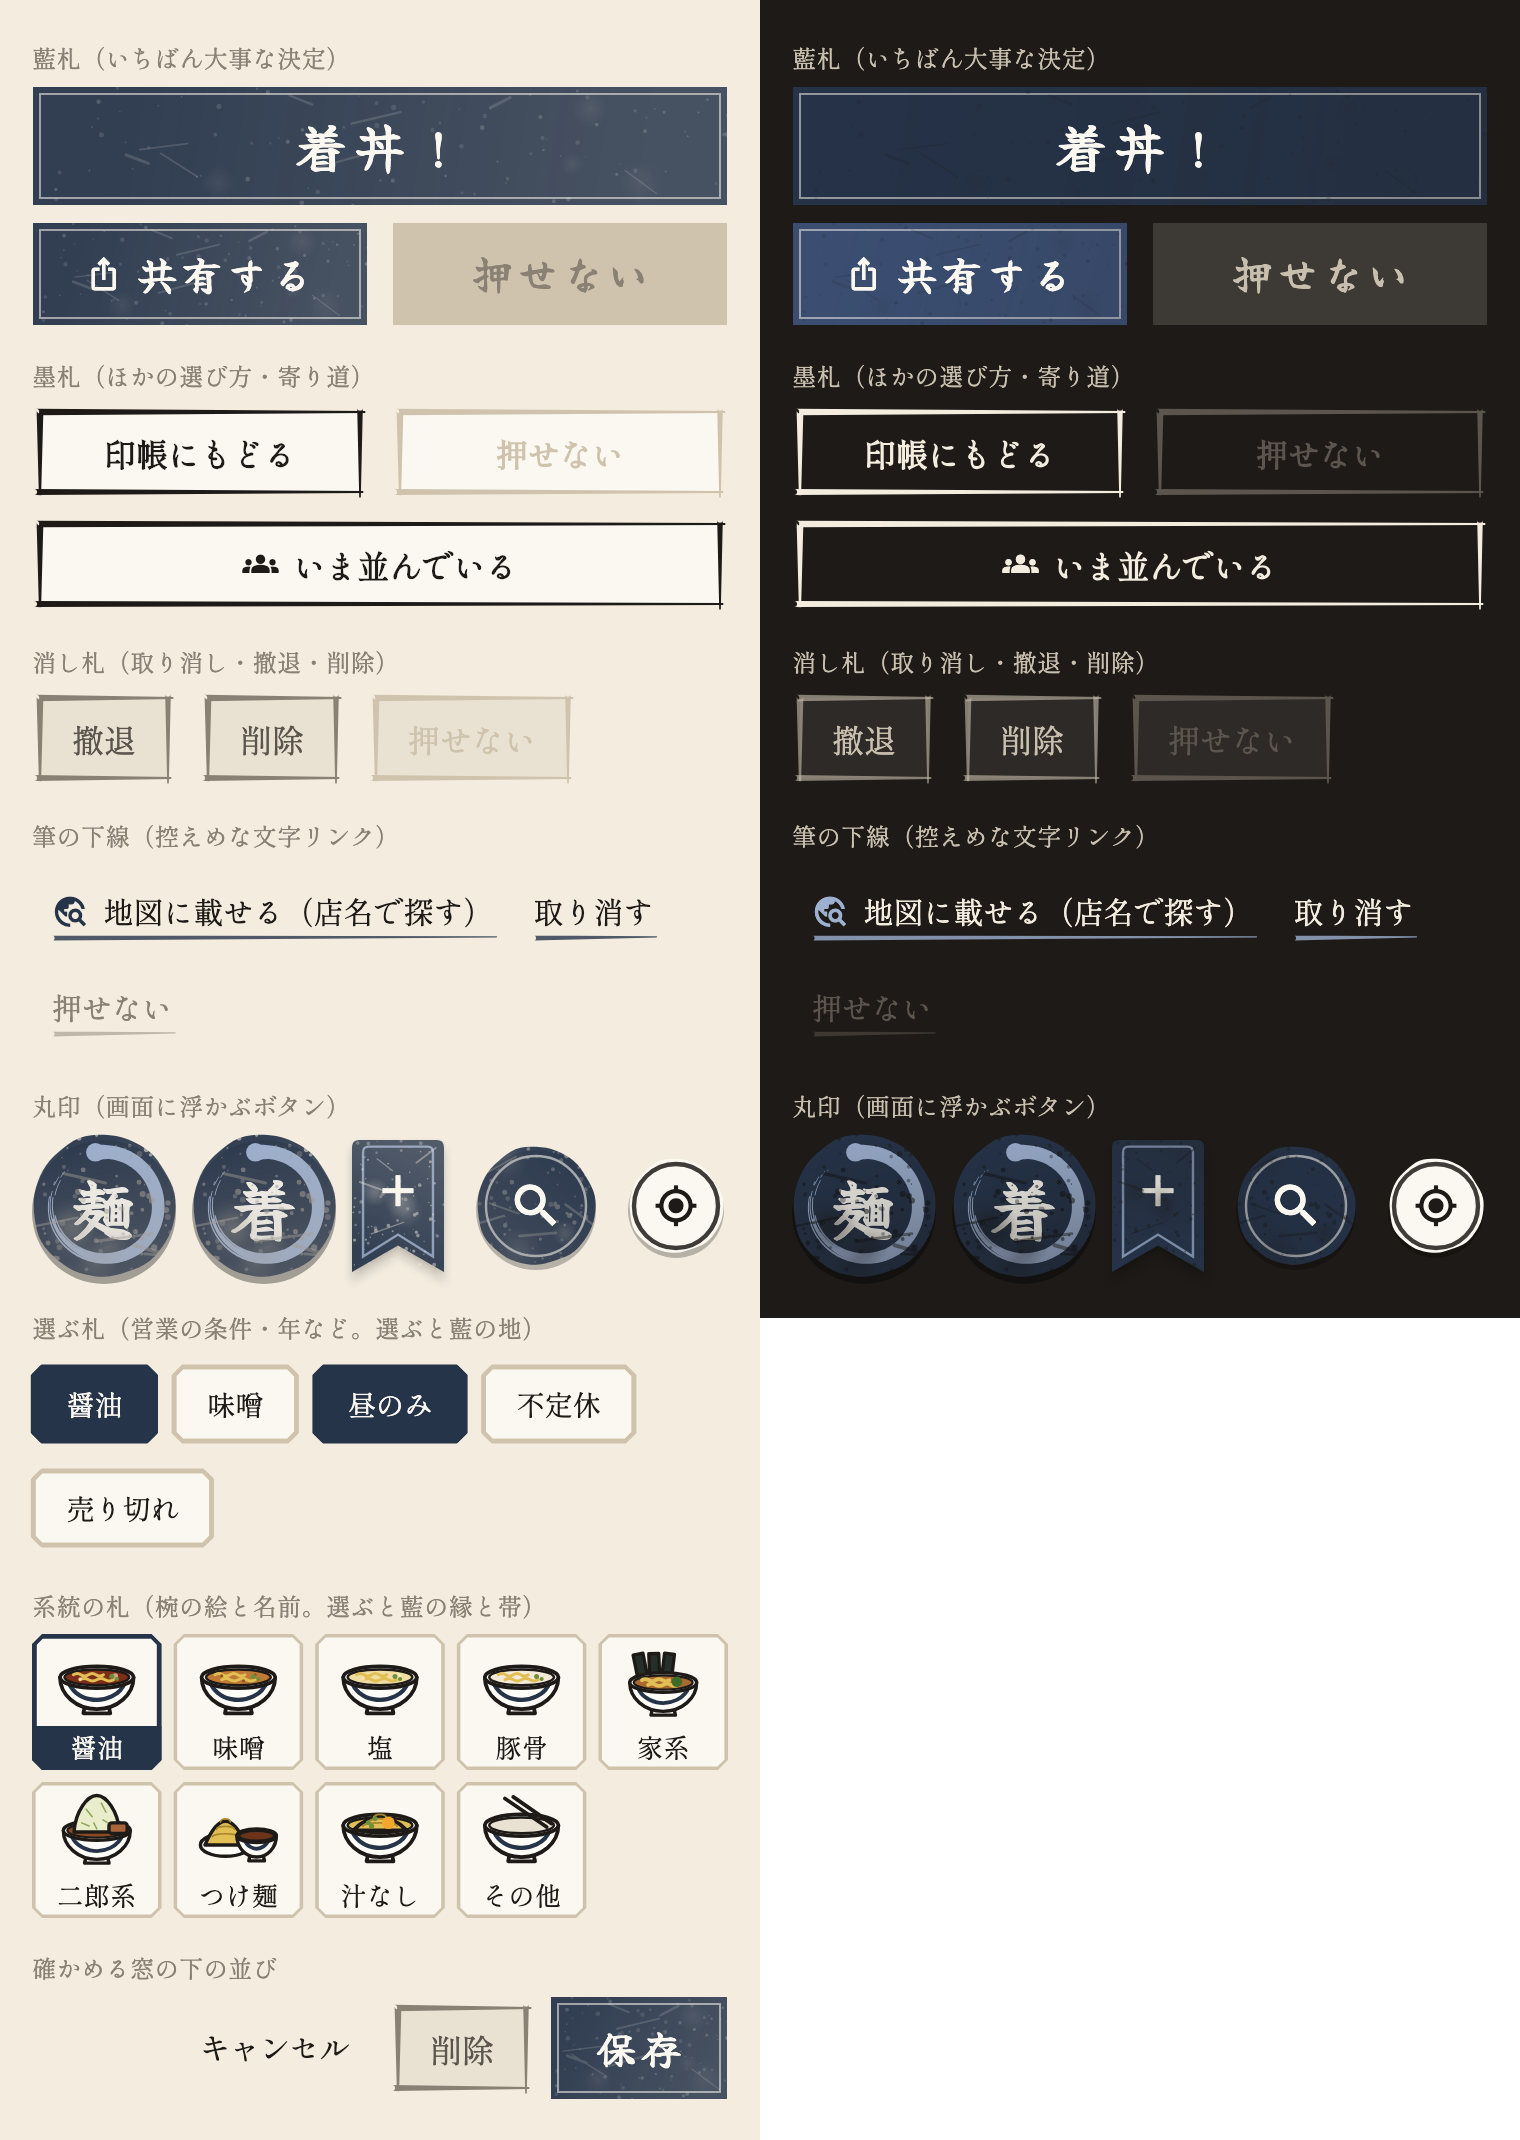
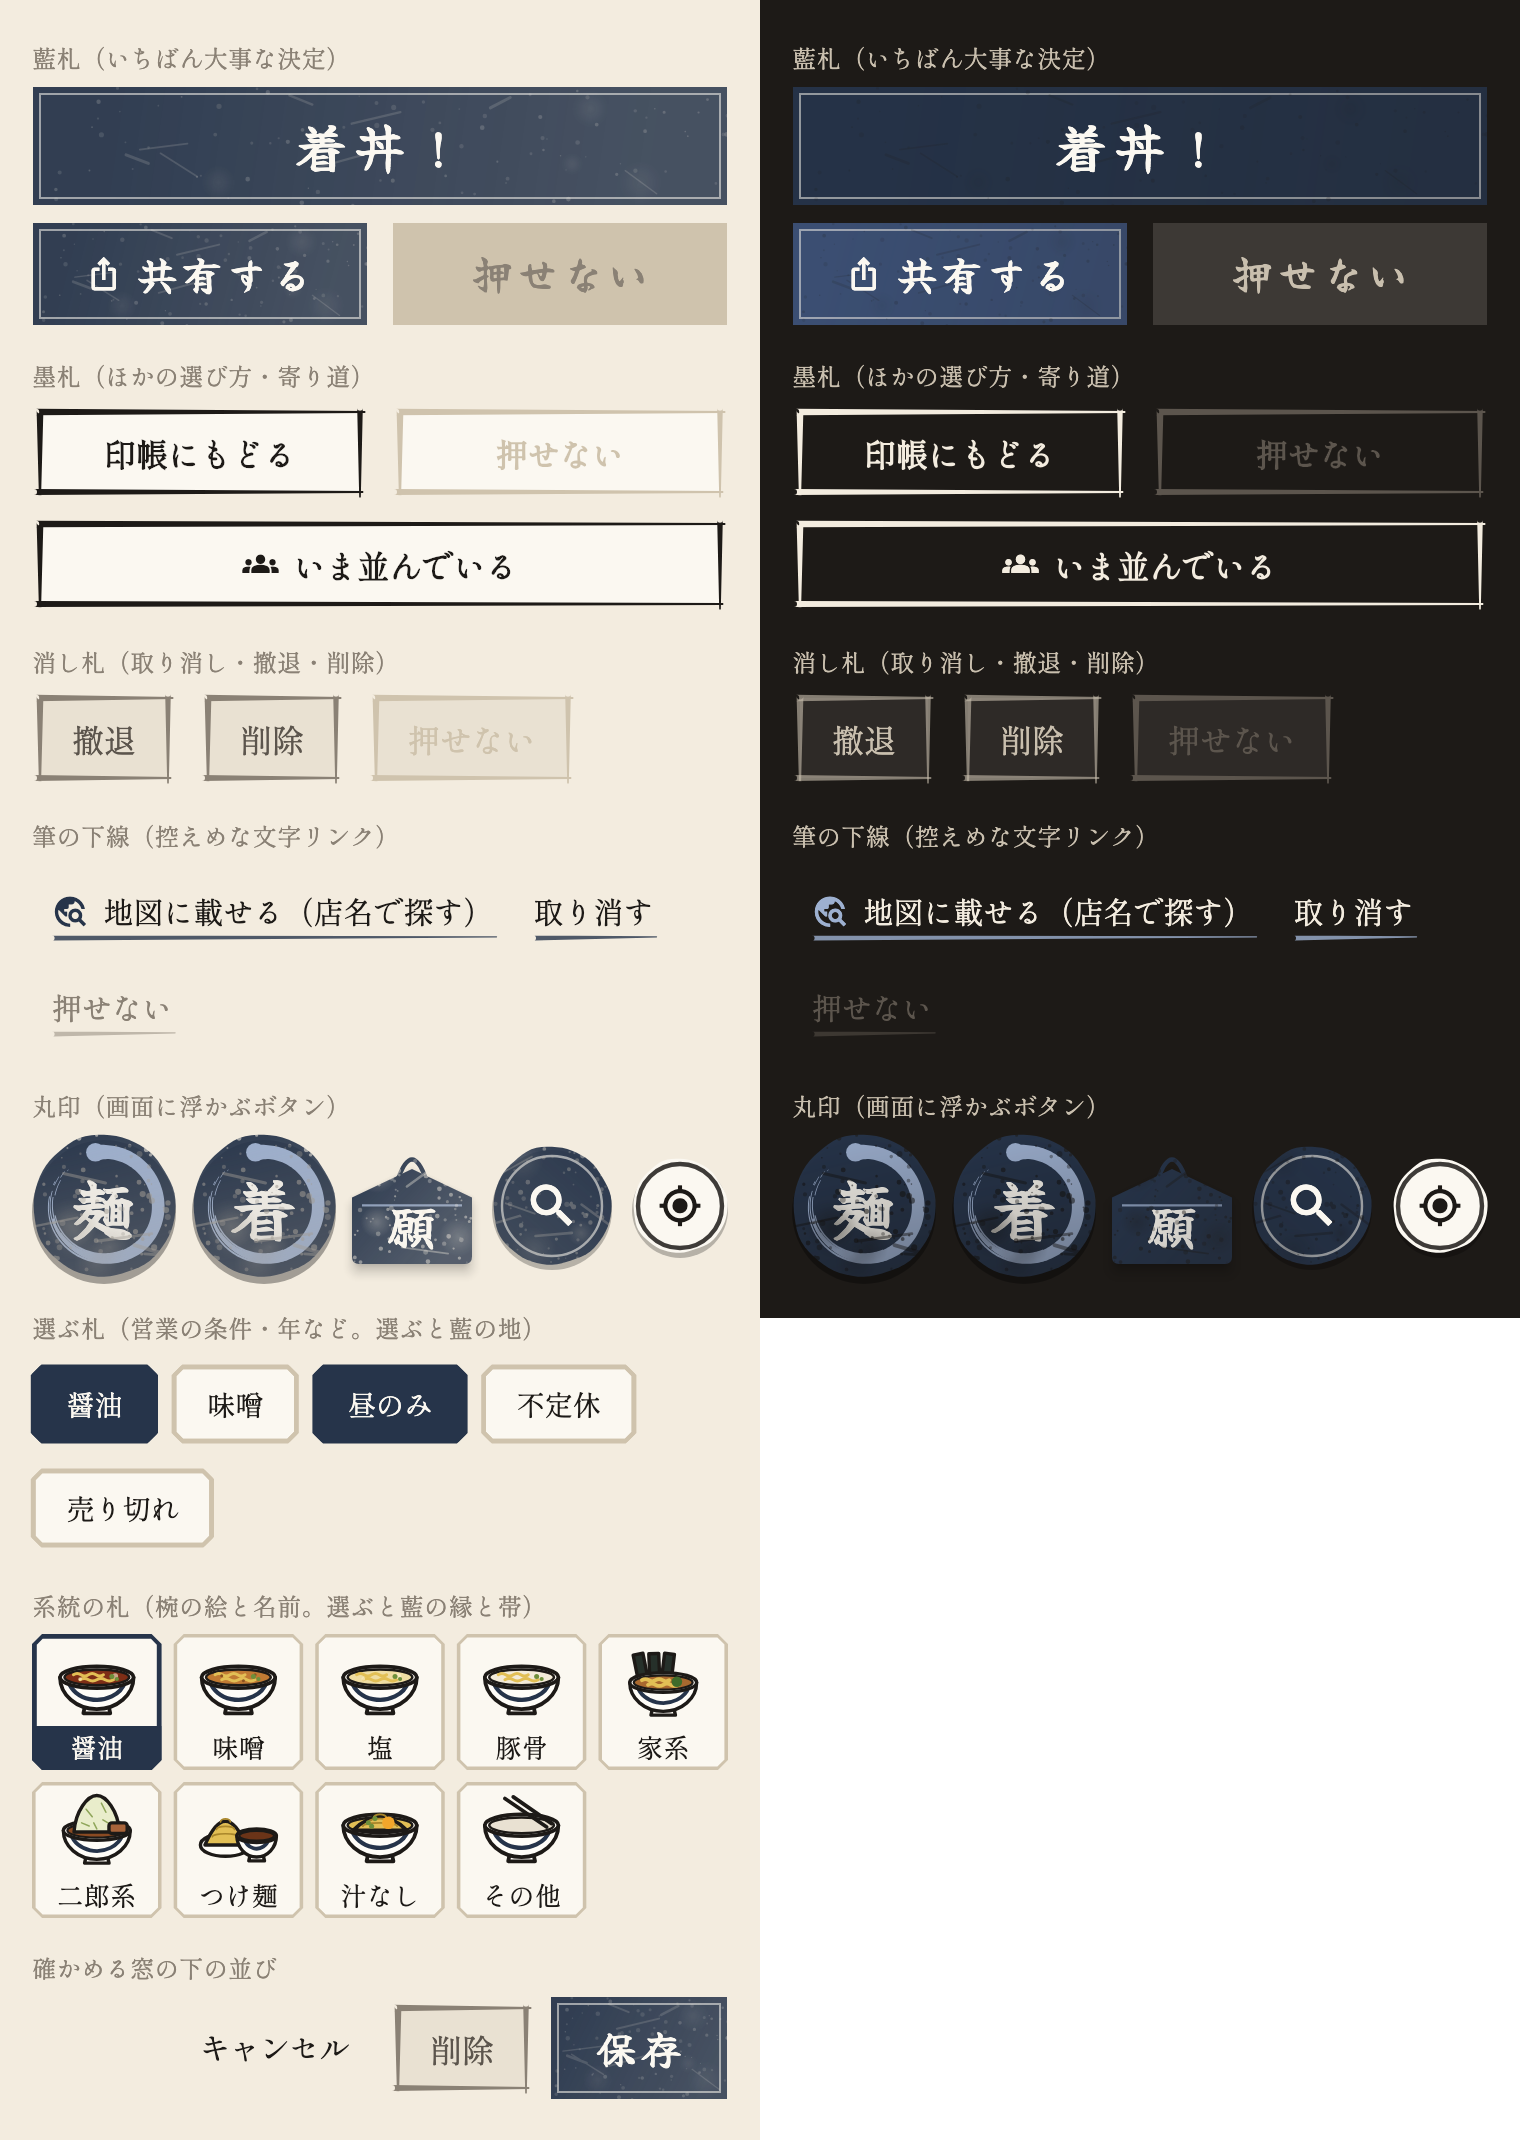
願を足すボタンを絵馬の形にし、真ん中の判子の分だけ持ち上げる

Changed region(s): [[0.2164, 0.5243, 0.4947, 0.6168], [0.7112, 0.5243, 0.9895, 0.6168]]

diff --git a/lib/theme/washi_buttons.dart b/lib/theme/washi_buttons.dart
@@ -864,12 +864,12 @@ void _paintEnso(
   }
 }
 
-/// 願掛け帳で願を足す、しおりの形のボタン。真ん中の判子（記録）と取り違えないよう、丸にしない。
-class ShioriFab extends StatelessWidget {
-  const ShioriFab({super.key, required this.tooltip, required this.onPressed});
+/// 願掛け帳で願を足す、絵馬の形のボタン。真ん中の判子（記録）と取り違えないよう、丸にしない。
+class EmaFab extends StatelessWidget {
+  const EmaFab({super.key, required this.tooltip, required this.onPressed});
 
-  static const width = 46.0;
-  static const height = 66.0;
+  static const width = 60.0;
+  static const height = 58.0;
 
   final String tooltip;
   final VoidCallback? onPressed;
@@ -888,27 +888,36 @@ class ShioriFab extends StatelessWidget {
             children: [
               Positioned.fill(
                 child: InkWear(
-                  seed: inkSeed('shiori'),
+                  seed: inkSeed('ema'),
                   strength: 0.5,
                   child: CustomPaint(
-                    painter: const _ShioriPainter(),
+                    painter: const _EmaPainter(),
                     child: Padding(
-                      padding: const EdgeInsets.only(bottom: height * 0.22),
-                      child: Center(
-                        child: Icon(Icons.add, size: 26, color: Washi.page),
+                      padding: EdgeInsets.only(top: height * 0.34),
+                      child: const Center(
+                        child: Text(
+                          '願',
+                          style: TextStyle(
+                            fontFamily: Washi.brush,
+                            fontSize: 24,
+                            height: 1,
+                            color: Washi.page,
+                          ),
+                        ),
                       ),
                     ),
                   ),
                 ),
               ),
               Positioned.fill(
+                top: height * 0.18,
                 child: Material(
                   type: MaterialType.transparency,
-                  shape: const _ShioriBorder(),
+                  shape: const _EmaBorder(),
                   clipBehavior: Clip.antiAlias,
                   child: InkWell(
                     onTap: onPressed,
-                    customBorder: const _ShioriBorder(),
+                    customBorder: const _EmaBorder(),
                     splashColor: Washi.page.withValues(alpha: 0.2),
                   ),
                 ),
@@ -921,34 +930,34 @@ class ShioriFab extends StatelessWidget {
   }
 }
 
-/// しおりの形。上の角はわずかに丸め、下は燕尾に切り込む。
-Path _shioriPath(Rect rect) {
-  final r = rect.width * 0.08;
-  final notch = rect.height * 0.2;
+/// 絵馬の板。屋根のように上を山形にした五角形。
+Path _emaPath(Rect rect) {
+  final roof = rect.height * 0.3;
+  final r = rect.width * 0.06;
   return Path()
-    ..moveTo(rect.left, rect.top + r)
-    ..quadraticBezierTo(rect.left, rect.top, rect.left + r, rect.top)
-    ..lineTo(rect.right - r, rect.top)
-    ..quadraticBezierTo(rect.right, rect.top, rect.right, rect.top + r)
-    ..lineTo(rect.right, rect.bottom)
-    ..lineTo(rect.center.dx, rect.bottom - notch)
-    ..lineTo(rect.left, rect.bottom)
+    ..moveTo(rect.center.dx, rect.top)
+    ..lineTo(rect.right, rect.top + roof)
+    ..lineTo(rect.right, rect.bottom - r)
+    ..quadraticBezierTo(rect.right, rect.bottom, rect.right - r, rect.bottom)
+    ..lineTo(rect.left + r, rect.bottom)
+    ..quadraticBezierTo(rect.left, rect.bottom, rect.left, rect.bottom - r)
+    ..lineTo(rect.left, rect.top + roof)
     ..close();
 }
 
-class _ShioriBorder extends ShapeBorder {
-  const _ShioriBorder();
+class _EmaBorder extends ShapeBorder {
+  const _EmaBorder();
 
   @override
   EdgeInsetsGeometry get dimensions => EdgeInsets.zero;
 
   @override
   Path getInnerPath(Rect rect, {TextDirection? textDirection}) =>
-      _shioriPath(rect);
+      _emaPath(rect);
 
   @override
   Path getOuterPath(Rect rect, {TextDirection? textDirection}) =>
-      _shioriPath(rect);
+      _emaPath(rect);
 
   @override
   void paint(Canvas canvas, Rect rect, {TextDirection? textDirection}) {}
@@ -957,26 +966,44 @@ class _ShioriBorder extends ShapeBorder {
   ShapeBorder scale(double t) => this;
 }
 
-class _ShioriPainter extends CustomPainter {
-  const _ShioriPainter();
+class _EmaPainter extends CustomPainter {
+  const _EmaPainter();
 
   @override
   void paint(Canvas canvas, Size size) {
-    final rect = Offset.zero & size;
-    final path = _shioriPath(rect);
+    // 板は紐の分だけ下げて描き、上に吊るし紐の輪を出す。
+    final board = Rect.fromLTRB(0, size.height * 0.18, size.width, size.height);
+    final path = _emaPath(board);
     canvas.drawShadow(path, Colors.black, 3, false);
     canvas.drawPath(path, Paint()..color = Washi.ai);
-    // 内側に淡い藍の細い線を引き、布のしおりの縁取りにする。
-    final inset = size.width * 0.12;
-    canvas.drawPath(
-      _shioriPath(rect.deflate(inset)).shift(Offset(0, -inset * 0.4)),
+    // 屋根の下に、淡い藍の細い線で屋根板の縁を引く。
+    final roofLine = board.top + board.height * 0.3 + 4;
+    canvas.drawLine(
+      Offset(board.left + 5, roofLine),
+      Offset(board.right - 5, roofLine),
       Paint()
         ..color = Washi.aiLight.withValues(alpha: 0.8)
-        ..style = PaintingStyle.stroke
         ..strokeWidth = 1.2,
+    );
+    final cord = Paint()
+      ..color = Washi.ai
+      ..style = PaintingStyle.stroke
+      ..strokeWidth = 2.2
+      ..strokeCap = StrokeCap.round;
+    final top = board.top + board.height * 0.12;
+    canvas.drawPath(
+      Path()
+        ..moveTo(size.width * 0.38, top)
+        ..quadraticBezierTo(
+          size.width * 0.5,
+          -size.height * 0.08,
+          size.width * 0.62,
+          top,
+        ),
+      cord,
     );
   }
 
   @override
-  bool shouldRepaint(_ShioriPainter old) => false;
+  bool shouldRepaint(_EmaPainter old) => false;
 }

diff --git a/lib/features/wishes/wish_list_screen.dart b/lib/features/wishes/wish_list_screen.dart
@@ -107,10 +107,17 @@ class WishListScreen extends ConsumerWidget {
                   ),
           ],
         ),
-        // 真ん中の判子（記録）と取り違えないよう、丸ではなくしおりの形にする。
-        floatingActionButton: ShioriFab(
-          tooltip: l10n.wishAddTitle,
-          onPressed: () => _addByName(context, ref),
+        // 真ん中の判子（記録）と取り違えないよう、丸ではなく絵馬の形にする。
+        // 判子が下のタブから上へはみ出す分だけ持ち上げ、右端に余白をとる。
+        floatingActionButton: Padding(
+          padding: const EdgeInsets.only(
+            right: 4,
+            bottom: RecordSealButton.overhang,
+          ),
+          child: EmaFab(
+            tooltip: l10n.wishAddTitle,
+            onPressed: () => _addByName(context, ref),
+          ),
         ),
       ),
     );

diff --git a/test/tool/button_catalog_test.dart b/test/tool/button_catalog_test.dart
@@ -128,14 +128,14 @@ Widget _panel({required bool night}) {
         const SizedBox(width: 8),
         RecordSealButton(glyph: '着', tooltip: '着丼したら押す', onPressed: _noop),
         const SizedBox(width: 8),
-        ShioriFab(tooltip: '願を足す', onPressed: _noop),
-        const SizedBox(width: 16),
+        EmaFab(tooltip: '願を足す', onPressed: _noop),
+        const SizedBox(width: 10),
         SealFab(
           tooltip: '探す',
           onPressed: _noop,
           child: const Icon(Icons.search),
         ),
-        const SizedBox(width: 16),
+        const SizedBox(width: 10),
         SealFab(
           tooltip: '現在地',
           sumi: true,

diff --git a/test/features/wishes/wish_list_screen_test.dart b/test/features/wishes/wish_list_screen_test.dart
@@ -59,7 +59,7 @@ void main() {
     expect(find.text('はやし田'), findsOneWidget);
     expect(find.text(ja.wishFulfilledLine('2026/10/3', 32)), findsOneWidget);
 
-    await tester.tap(find.byType(ShioriFab));
+    await tester.tap(find.byType(EmaFab));
     await tester.pumpAndSettle();
     await tester.enterText(find.byType(TextField).first, '豚山');
     await tester.pump();

diff --git a/docs/buttons/README.md b/docs/buttons/README.md
@@ -11,7 +11,7 @@
 | 消し札（灰の地に薄墨の枠） | 取り消し・撤退・削除 | 撤退・撤退を記録・削除・破棄してやめる・破棄して新しく記録する・取り消す（確かめる窓） |
 | 筆の下線（藍の筆で下線を引いた文字） | 控えめな寄り道 | 地図に載せる・全国の店から探す・撮り直す・旅路を再生・遠征・叶えた・願を掛ける（思い出）・取り消す（並び中の帯）・下書きを捨てて新しく |
 | 丸印（藍の丸に内側の輪／和紙に墨の輪） | 画面に浮かぶボタン | 記録の判子（筆の円相、かすれ付き。ふだんは「麺」、並んでいる最中は「着」）・このあたりを探す・現在地（墨の輪） |
-| しおり（藍のしおりに和紙色の＋） | 願掛け帳で願を足す | 願を足す（記録の判子と取り違えないよう丸にしない） |
+| 絵馬（藍の絵馬に和紙色の「願」） | 願掛け帳で願を足す | 願を足す（記録の判子と取り違えないよう丸にしない） |
 | 選ぶ札（角を落とした木札、選ぶと藍の地に和紙色の字。チェックは出さず、選んでも幅が変わらない） | 営業の条件・年などを選ぶ | 編集・店の条件・修行録・地図の旅路・撤退の理由 |
 | 系統の札（椀の絵と名前の木札、選ぶと藍の縁と名前の帯） | 系統を1つ選ぶ（もう一度押すと外れる） | 記録の「くわしく」・編集 |
 
